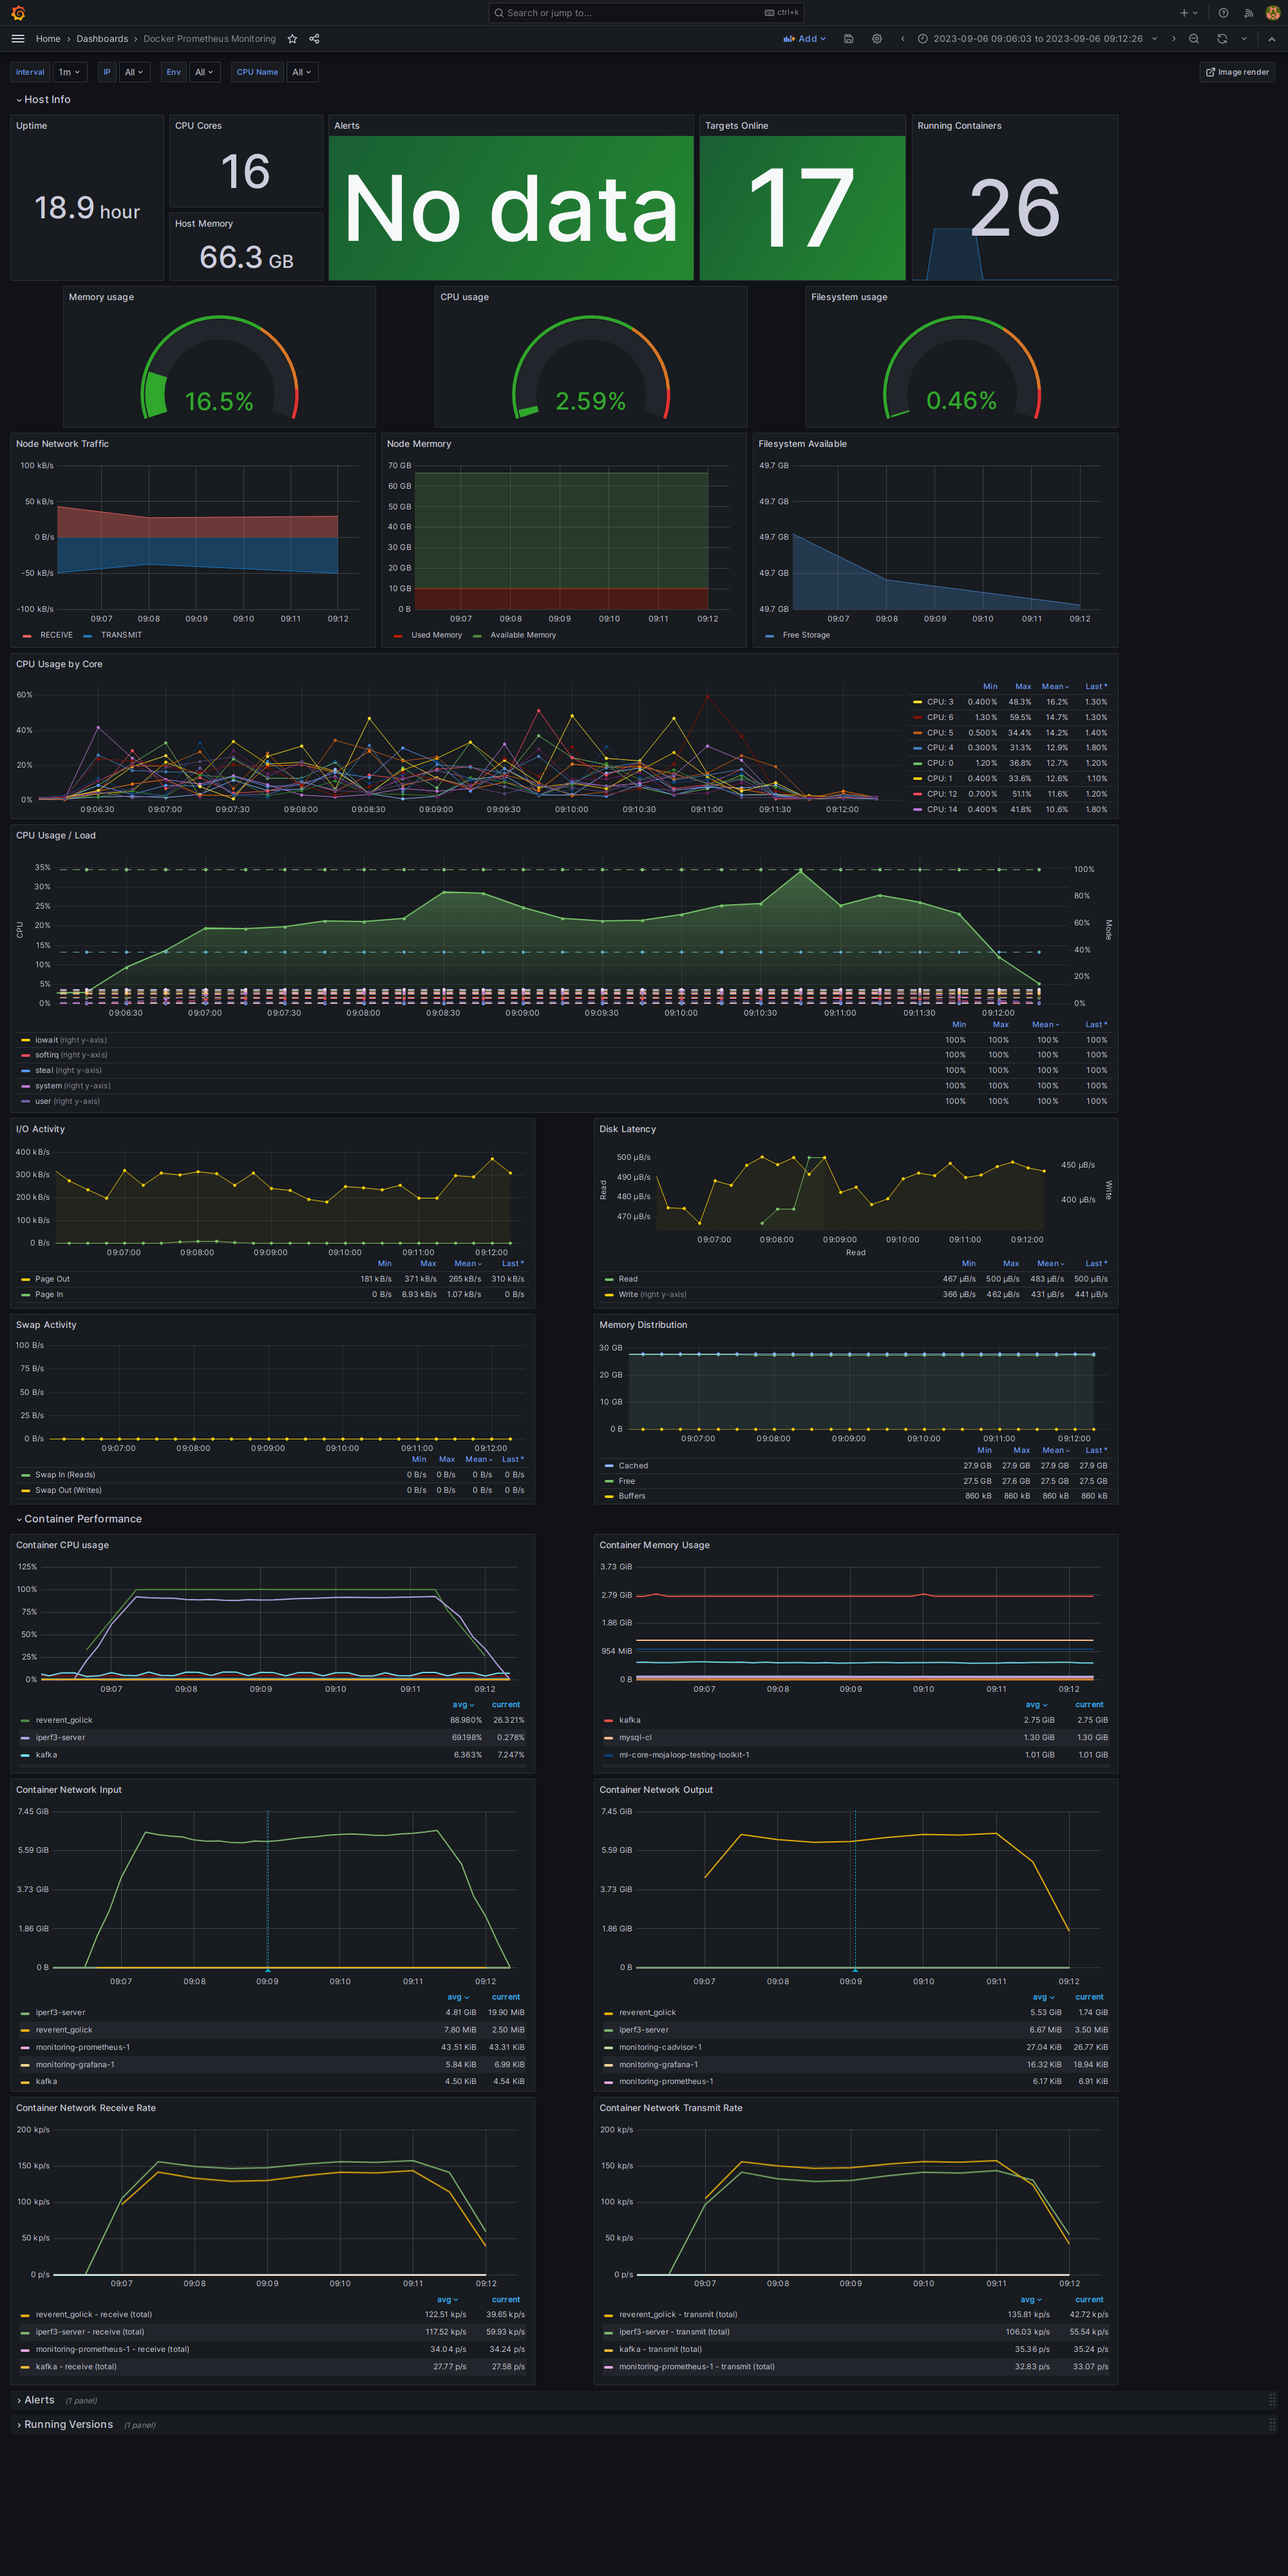
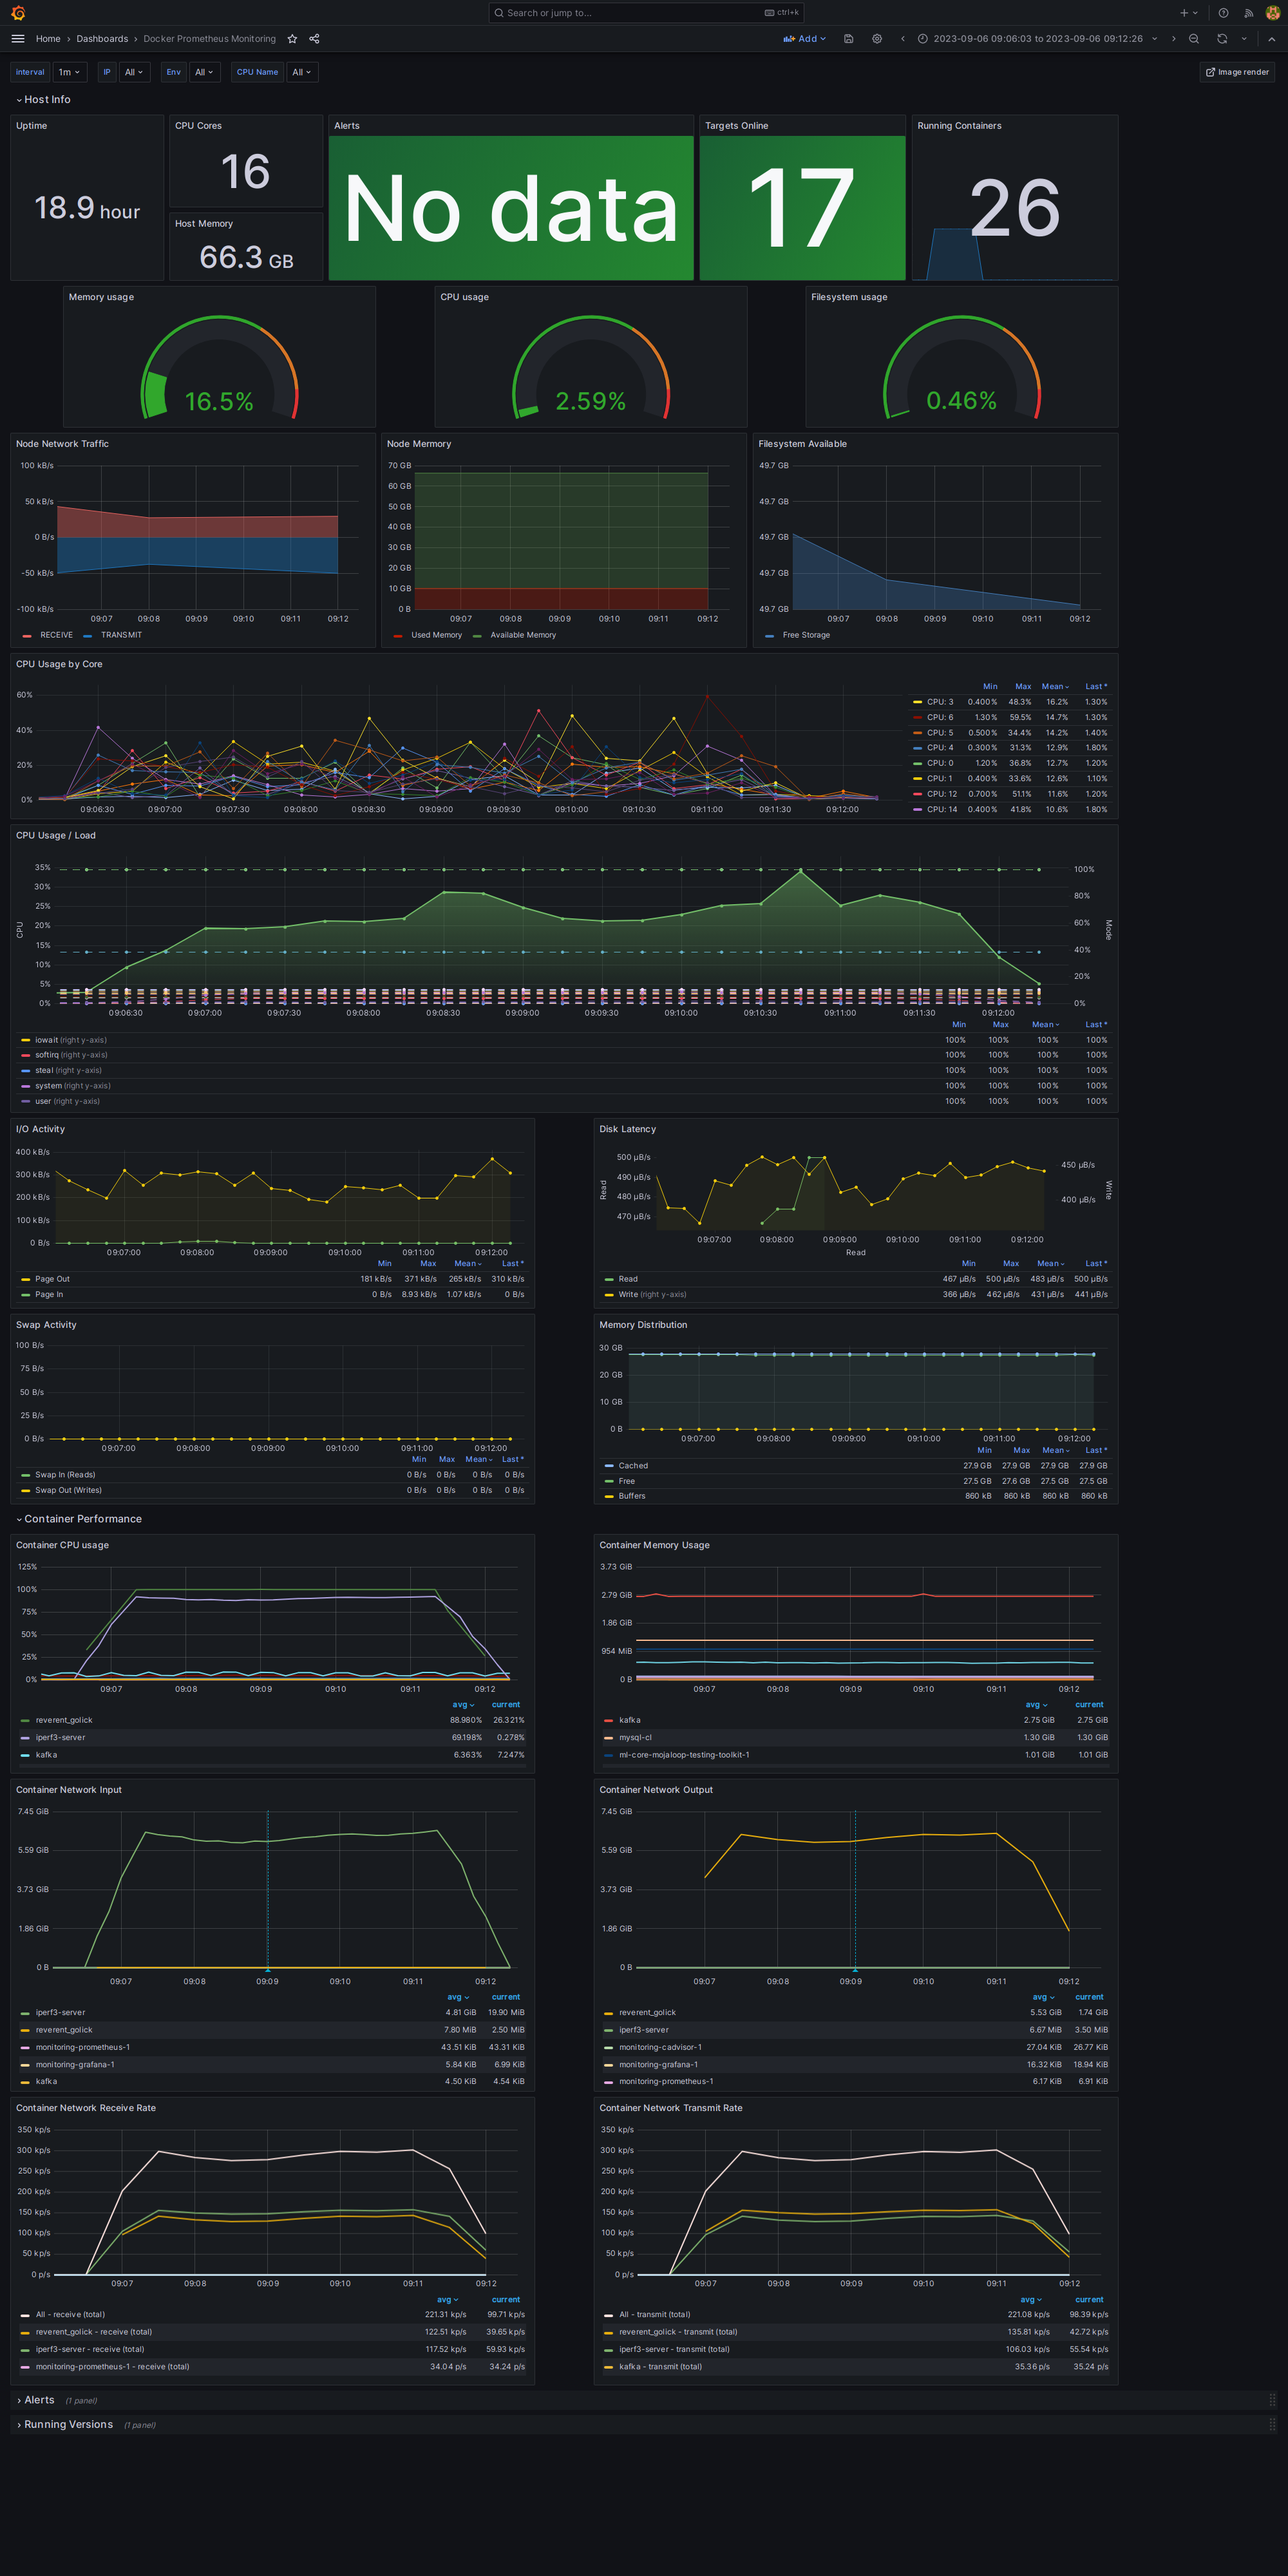
updated graphs with "all" kps for network in/out

diff --git a/support-profiling/README.md b/support-profiling/README.md
@@ -6,7 +6,7 @@ This characterization is for the [Central-Services-Stream](https://github.com/mo
 
 | Mojaloop Version |  Date  | Status  | Next  | Notes  |
 |---|---|---|---|---|
-| 15.1.0 | 2023-09-06 | Docker network shows a limit of `6.42 GBytes` @ `55 Gbits/sec` using iPERF3 benchmark over a 5m period, with the network I/O packet rate being around `150 kp/s` (kp = kilo-packets) for both receive an transmit. |   |
+| 15.1.0 | 2023-09-06 | Docker network shows a limit of `6.42 GBytes` @ `55 Gbits/sec` using iPERF3 benchmark over a 5m period, with the network I/O packet rate being around `150 kp/s` (kp = kilo-packets) for both receive an transmit, with the overall `220-280 kp/s` (10 vs 1) depending on concurrency |   |
 
 ### Assumptions
 

diff --git a/support-profiling/20230906/s2-net/README.md b/support-profiling/20230906/s2-net/README.md
@@ -29,7 +29,7 @@ docker run  -it --rm networkstatic/iperf3 -c $(docker inspect --format "{{ .Netw
 ## Observations
 
 - Network Input/Output is limited to 6.46 GBytes @ 55.5 Gbits/sec
-- Network packet I/O rate is `150 kp/s` (kp = kilo-packets) for both receive an transmit
+- Network packet I/O rate is `150 kp/s` (kp = kilo-packets) for both receive an transmit, combined `230 kp/s` (Note: this is slightly lower than [s1-net](../s1-net/README.md) - possibly caused by the increased concurrency?)
 
 ## Recommendations
 

diff --git a/support-profiling/20230906/s1-net/README.md b/support-profiling/20230906/s1-net/README.md
@@ -29,7 +29,7 @@ docker run  -it --rm networkstatic/iperf3 -c $(docker inspect --format "{{ .Netw
 ## Observations
 
 - Network Input/Output is limited to `6.42 GBytes` @ `55 Gbits/sec` <-- similar results to [S1-IPERF3](../s1-iperf3/README.md)
-- Network packet I/O is `150 kp/s` (kp = kilo-packets) for both receive an transmit
+- Network packet I/O is `150 kp/s` (kp = kilo-packets) for both receive an transmit, combined `280 kp/s`
 
 ## Recommendations
 
